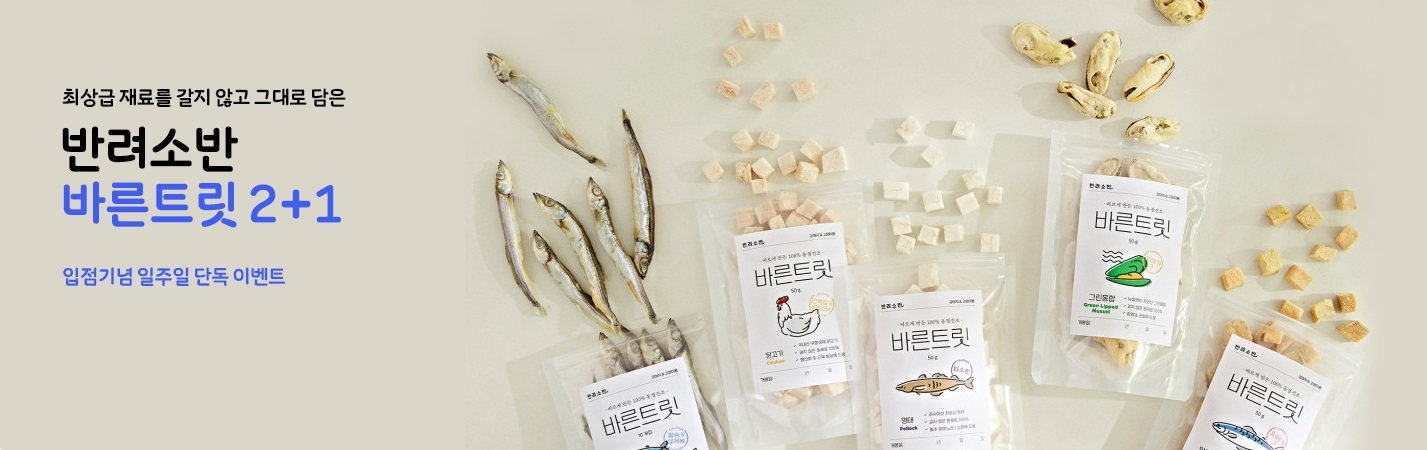
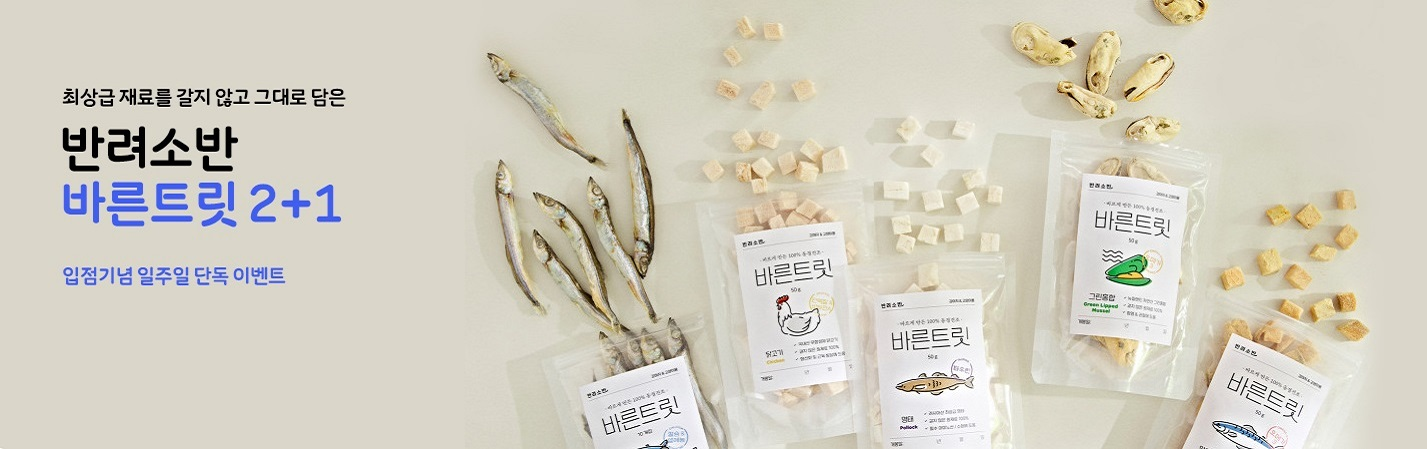
슬라이드 광고 수정! 및 사진도 수정!

diff --git a/style.css b/style.css
@@ -50,56 +50,26 @@ padding-left:50px;
 
 }
 
-.bg-1{
-
-  color: #ffffff;
-
-  margin: 0;
-
-}
-
-
-
-*{margin:0;padding:0;}
-
- ul,li{list-style:none;}
-
- #slide{height:100%;position:relative;overflow:hidden;}
-
- #slide ul{width:400%;height:100%;transition:1s;}
-
- #slide ul:after{content:"";display:block;clear:both;}
-
- #slide li{float:left;width:25%;height:100%;}
-
- #slide input{display:none;}
-
- #slide label{display:inline-block;vertical-align:middle;width:10px;height:10px;border:2px solid #666;background:#fff;transition:0.3s;border-radius:50%;cursor:pointer;}
-
- #slide .pos{text-align:center;position:absolute;bottom:10px;left:0;width:100%;text-align:center;}
-
- #pos1:checked~ul{margin-left:0%;}
-
- #pos2:checked~ul{margin-left:-100%;}
-
- #pos3:checked~ul{margin-left:-200%;}
-
- #pos4:checked~ul{margin-left:-300%;}
-
- #pos1:checked~.pos>label:nth-child(1){background:#666;}
-
- #pos2:checked~.pos>label:nth-child(2){background:#666;}
-
- #pos3:checked~.pos>label:nth-child(3){background:#666;}
-
-
- .carousel-control.left {
-   color: #f4511e;
- }
-
- .carousel-control.right{
-   color: #f4511e;
- }
+ 	.carousel-control.right, .carousel-control.left {
+ 	  background-image: none;
+ 	  color: #f4911e;
+ 	}
+ 	.carousel-indicators li {
+ 	  border-color: #f4911e;
+ 	}
+ 	.carousel-indicators li.active {
+ 	  background-color: #f4911e;
+ 	}
+ 	.item h4 {
+ 	  font-size: 19px;
+ 	  line-height: 1.375em;
+ 	  font-weight: 400;
+ 	  font-style: italic;
+ 	  margin: 70px 0;
+ 	}
+ 	.item span {
+ 	  font-style: normal;
+ 	}
 
 .hhh{
   font-size:35px;
@@ -306,27 +276,27 @@ dl dt{
   margin-left: 200px;
 }
 
-.btnbtn{
-  text-align: center;
-}
 
-#cart_btn, #payment_btn{
+#cart_btn{
+
   margin-left: auto;
   margin-right: auto;
+
   background: #fff;
+
   border: 2px solid rgb(255,201,201);
   border-radius: 5px;
   padding: 15px;
-  text-align: center;
-  display: inline;
+  display: block;
   width:10%;
   font-size: 16px;
+
   transition: 0.3s;
   -webkit-transition:0.3s;
   -moz-transition:0.3s;
   margin-bottom: 20px;
 }
-#credit_btn{
+#payment_btn{
   margin-left: auto;
   margin-right: auto;
   background: #fff;
@@ -341,24 +311,14 @@ dl dt{
   -moz-transition:0.3s;
   margin-bottom: 20px;
 }
-#cart_btn:hover, #credit_btn:hover{
-  margin-left: auto;
-  margin-right: auto;
+#cart_btn:hover, #payment_btn:hover{
   background: rgb(255,201,201);
-  border: 2px solid rgb(255,201,201);
-  border-radius: 5px;
-  padding: 15px;
   color:#fff;
-  display: inline;
-  width:10%;
-  font-size: 16px;
-  transition: 0.3s;
-  -webkit-transition:0.3s;
-  -moz-transition:0.3s;
-  margin-bottom: 20px;
-  cursor:pointer;
+  border:1px solid rgb(255,201,201);
+  cursor: pointer;
 }
-#list_cart{
+
+.list-item{
   display:inline;
 }
 .more_btn{
@@ -368,48 +328,4 @@ dl dt{
   border-radius: 15px;
   padding-left:15px;
   padding-right:15px;
-}
-#total_price{
-  text-align: center;
-  margin-bottom: 15px;
-}
-#tp{
-  display:inline;
-  font-size: 24px;
-  text-align: center;
-  border:2px solid rgb(255,201,201);
-  padding-left: 15px;
-  padding-right: 15px;
-  padding-top: 5px;
-  padding-bottom: 5px;
-  border-radius: 15px;
-}
-
-.loading{
-  text-align: center;
-  font-size: 40px;
-}
-
-.payment_field{
-  text-align: center;
-  font-size: 24px;
-}
-.payment_field input{
-  margin-left: auto;
-  margin-right: auto;
-  display:block;
-  border:1px solid #ccc;
-  border-radius: 5px;
-  background: #fff;
-  padding:15px;
-  outline:none;
-  width:20%;
-  font-size: 16px;
-  margin-bottom: 20px;
-
-}
-
-#card_info_title{
-  margin-top: 40px;
-  margin-bottom: 20px;
 }

diff --git a/monyang_cat.html b/monyang_cat.html
@@ -10,6 +10,9 @@
 
     <link rel="stylesheet" href="style.css">
 
+    <meta name="viewport" content="width=device-width, initial-scale=1">
+
+    <link rel="stylesheet" href="https://maxcdn.bootstrapcdn.com/bootstrap/3.4.1/css/bootstrap.min.css">
 
 
   <link rel="stylesheet" href="https://maxcdn.bootstrapcdn.com/bootstrap/3.3.2/css/bootstrap.min.css">
@@ -24,6 +27,8 @@
   <script src="https://www.gstatic.com/firebasejs/7.15.0/firebase-analytics.js"></script>
   <script src="https://www.gstatic.com/firebasejs/7.15.0/firebase-auth.js"></script>
     <script src="https://www.gstatic.com/firebasejs/7.15.0/firebase-firestore.js"></script>
+    <script src="https://ajax.googleapis.com/ajax/libs/jquery/3.4.1/jquery.min.js"></script>
+    <script src="https://maxcdn.bootstrapcdn.com/bootstrap/3.4.1/js/bootstrap.min.js"></script>
   <script src="main.js"> </script>
 
 
@@ -123,49 +128,33 @@
 
 
 
-      <div class="container-fluid text-center bg-1" >
+    <div id="myCarousel" class="carousel slide text-center" data-ride="carousel">
+      <ol class="carousel-indicators">
+        <li data-target="#myCarousel" data-slide-to="0" class="active"></li>
+        <li data-target="#myCarousel" data-slide-to="1"></li>
+        <li data-target="#myCarousel" data-slide-to="2"></li>
+      </ol>
 
-      <div id="slide">
+      <div class="carousel-inner">
+        <div class="item active">
+      <img src="banner/banner1_cat.jpg" style="width:100%">
+        </div>
+        <div class="item">
+          <img src="banner/banner2_cat.jpg" style="width:100%">
+        </div>
+        <div class="item">
+          <img src="banner/banner3_cat.jpg" style="width:100%">
+        </div>
+      </div>
 
-  <input type="radio" name="pos" id="pos1" checked>
-
-  <input type="radio" name="pos" id="pos2">
-
-  <input type="radio" name="pos" id="pos3">
-
-  <ul>
-
-    <li><img src="banner/banner1_cat.jpg" style="width:100%"></li>
-
-    <li><img src="banner/banner2_cat.jpg" style="width:100%"></li>
-
-    <li><img src="banner/banner3_cat.jpg" style="width:100%"></li>
-
-  </ul>
-
-  <p class="pos">
-
-    <label for="pos1"></label>
-
-    <label for="pos2"></label>
-
-    <label for="pos3"></label>
-
-  </p>
-
-  <a class="left carousel-control" href="#myCarousel" role="button" data-slide="prev">
-  <span class="glyphicon glyphicon-chevron-left" aria-hidden="true"></span>
-  <span class="sr-only">Previous</span>
-</a>
-<a class="right carousel-control" href="#myCarousel" role="button" data-slide="next">
-  <span class="glyphicon glyphicon-chevron-right" aria-hidden="true"></span>
-  <span class="sr-only">Next</span>
-</a>
-
-</div>
-
-
-
+      <a class="left carousel-control" href="#myCarousel" role="button" data-slide="prev">
+        <span class="glyphicon glyphicon-chevron-left" aria-hidden="true"></span>
+        <span class="sr-only">Previous</span>
+      </a>
+      <a class="right carousel-control" href="#myCarousel" role="button" data-slide="next">
+        <span class="glyphicon glyphicon-chevron-right" aria-hidden="true"></span>
+        <span class="sr-only">Next</span>
+      </a>
     </div>
 
 

diff --git a/monyang_dog.html b/monyang_dog.html
@@ -14,6 +14,9 @@
 
     <link rel="stylesheet" href="style.css">
 
+    <meta name="viewport" content="width=device-width, initial-scale=1">
+
+    <link rel="stylesheet" href="https://maxcdn.bootstrapcdn.com/bootstrap/3.4.1/css/bootstrap.min.css">
 
 
   <link rel="stylesheet" href="https://maxcdn.bootstrapcdn.com/bootstrap/3.3.2/css/bootstrap.min.css">
@@ -29,6 +32,8 @@
   <script src="https://www.gstatic.com/firebasejs/7.15.0/firebase-analytics.js"></script>
   <script src="https://www.gstatic.com/firebasejs/7.15.0/firebase-auth.js"></script>
   <script src="https://www.gstatic.com/firebasejs/7.15.0/firebase-firestore.js"></script>
+  <script src="https://ajax.googleapis.com/ajax/libs/jquery/3.4.1/jquery.min.js"></script>
+  <script src="https://maxcdn.bootstrapcdn.com/bootstrap/3.4.1/js/bootstrap.min.js"></script>
   <script src="main.js"> </script>
 
 
@@ -127,52 +132,33 @@
     </nav>
 
 
+    <div id="myCarousel" class="carousel slide text-center" data-ride="carousel">
+      <ol class="carousel-indicators">
+        <li data-target="#myCarousel" data-slide-to="0" class="active"></li>
+        <li data-target="#myCarousel" data-slide-to="1"></li>
+        <li data-target="#myCarousel" data-slide-to="2"></li>
+      </ol>
 
+      <div class="carousel-inner">
+        <div class="item active">
+      <img src="banner/banner1.jpg" style="width:100%">
+        </div>
+        <div class="item">
+          <img src="banner/banner2.jpg" style="width:100%">
+        </div>
+        <div class="item">
+          <img src="banner/banner3.jpg" style="width:100%">
+        </div>
+      </div>
 
-
-      <div class="container-fluid text-center bg-1" >
-
-      <div id="slide">
-
-  <input type="radio" name="pos" id="pos1" checked>
-
-  <input type="radio" name="pos" id="pos2">
-
-  <input type="radio" name="pos" id="pos3">
-
-  <ul>
-
-    <li><img src="banner/banner1.jpg" style="width:100%"></li>
-
-    <li><img src="banner/banner2.jpg" style="width:100%"></li>
-
-    <li><img src="banner/banner3.jpg" style="width:100%"></li>
-
-  </ul>
-
-  <p class="pos">
-
-    <label for="pos1"></label>
-
-    <label for="pos2"></label>
-
-    <label for="pos3"></label>
-
-  </p>
-
-  <a class="left carousel-control" href="#myCarousel" role="button" data-slide="prev">
-  <span class="glyphicon glyphicon-chevron-left" aria-hidden="true"></span>
-  <span class="sr-only">Previous</span>
-</a>
-<a class="right carousel-control" href="#myCarousel" role="button" data-slide="next">
-  <span class="glyphicon glyphicon-chevron-right" aria-hidden="true"></span>
-  <span class="sr-only">Next</span>
-</a>
-
-</div>
-
-
-
+      <a class="left carousel-control" href="#myCarousel" role="button" data-slide="prev">
+        <span class="glyphicon glyphicon-chevron-left" aria-hidden="true"></span>
+        <span class="sr-only">Previous</span>
+      </a>
+      <a class="right carousel-control" href="#myCarousel" role="button" data-slide="next">
+        <span class="glyphicon glyphicon-chevron-right" aria-hidden="true"></span>
+        <span class="sr-only">Next</span>
+      </a>
     </div>
 
 
